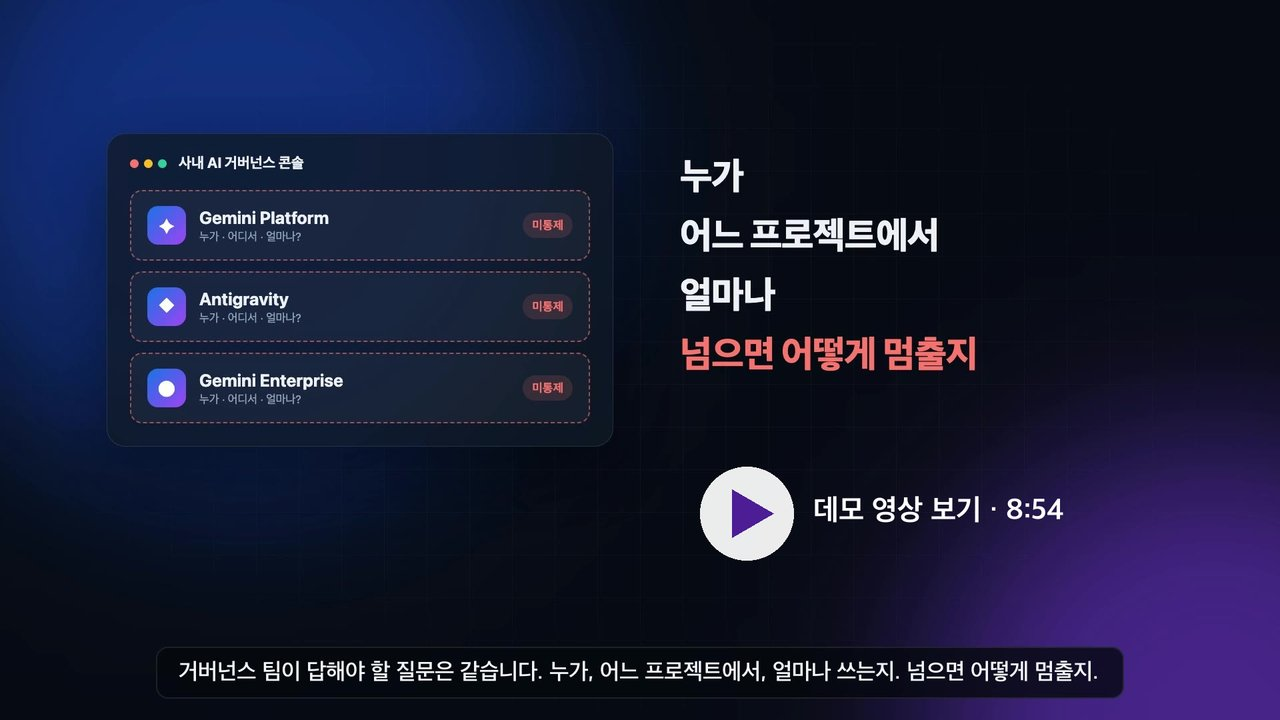
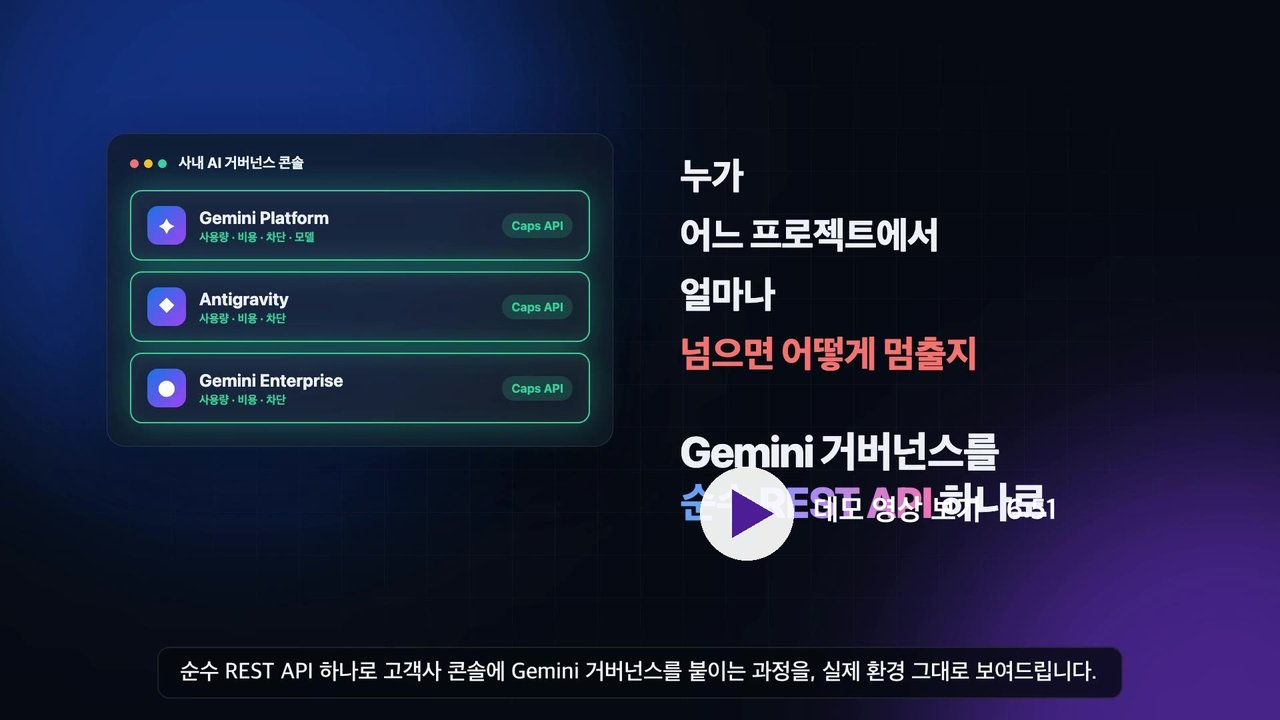
README: demo film recut (1.3x, 6:51, music from first frame, no project IDs in architecture)

Changed region(s): [[0.0938, 0.2444, 0.4688, 0.6111], [0.5312, 0.5806, 0.8438, 0.7333], [0.125, 0.9167, 0.875, 0.9472]]

diff --git a/README.md b/README.md
@@ -85,11 +85,11 @@ bash <(curl -fsSL https://github.com/ldu1225/ai-control-plane/raw/main/scripts/i
 
 ## 데모 영상: 순수 REST API로 고객사 콘솔에 Gemini 거버넌스 붙이기
 
-[![Gemini 거버넌스 REST API 실환경 데모 영상 (8분 54초)](docs/assets/video/gov-demo-poster.jpg)](https://ai-control-plane-hub-484712896449.us-central1.run.app/api/#featured-film-title)
+[![Gemini 거버넌스 REST API 실환경 데모 영상 (6분 51초)](docs/assets/video/gov-demo-poster.jpg)](https://ai-control-plane-hub-484712896449.us-central1.run.app/api/#featured-film-title)
 
 [`caps-dashboard`](caps-dashboard/)(고객사 거버넌스 콘솔)가 Caps REST API만으로 허브·스포크 프로젝트의 Gemini 사용량을 추적하고, 테스트 사용자의 실제 Gemini 호출을 IAM Deny로 403 차단했다가 복구하는 과정을 실환경 그대로 촬영했습니다. 아키텍처, API 명세서 6개 영역, 콘솔 투어, 즉시 차단·예산 초과·모델 위반·조직 정책 영향도 미리보기, 비용과 감사 로그 순서입니다. 한국어 내레이션과 자막이 들어 있습니다.
 
-[영상 재생 (허브 API 탭)](https://ai-control-plane-hub-484712896449.us-central1.run.app/api/#featured-film-title) &nbsp;·&nbsp; [MP4 내려받기 (131 MB)](https://ai-control-plane-hub-484712896449.us-central1.run.app/media/video/gemini-governance-rest-api-demo.f6da34e25f.mp4) &nbsp;·&nbsp; [고객사 콘솔 열기 (Cloud Run)](https://caps-dashboard-484712896449.asia-northeast3.run.app)
+[영상 재생 (허브 API 탭)](https://ai-control-plane-hub-484712896449.us-central1.run.app/api/#featured-film-title) &nbsp;·&nbsp; [MP4 내려받기 (72 MB)](https://ai-control-plane-hub-484712896449.us-central1.run.app/media/video/gemini-governance-rest-api-demo.cddfca756c.mp4) &nbsp;·&nbsp; [고객사 콘솔 열기 (Cloud Run)](https://caps-dashboard-484712896449.asia-northeast3.run.app)
 
 ---
 

diff --git a/README.en.md b/README.en.md
@@ -85,11 +85,11 @@ Shared: project switcher (all or one), light and dark themes, Korean and English
 
 ## Demo film: Gemini governance in a customer console through the REST API alone
 
-[![Gemini governance REST API live demo (8:54)](docs/assets/video/gov-demo-poster.jpg)](https://ai-control-plane-hub-484712896449.us-central1.run.app/api/#featured-film-title)
+[![Gemini governance REST API live demo (6:51)](docs/assets/video/gov-demo-poster.jpg)](https://ai-control-plane-hub-484712896449.us-central1.run.app/api/#featured-film-title)
 
 Shot on a live environment: the [`caps-dashboard`](caps-dashboard/) customer governance console tracks Gemini usage across hub and spoke projects using only the Caps REST API, then blocks a test user's real Gemini calls with IAM Deny (HTTP 403) and restores them. It covers the architecture, the six areas of the API spec, a console tour, instant block, budget overrun, model violation, Org Policy impact preview, and cost and audit logs. Korean narration with subtitles.
 
-[Play (hub API tab)](https://ai-control-plane-hub-484712896449.us-central1.run.app/api/#featured-film-title) &nbsp;·&nbsp; [Download MP4 (131 MB)](https://ai-control-plane-hub-484712896449.us-central1.run.app/media/video/gemini-governance-rest-api-demo.f6da34e25f.mp4) &nbsp;·&nbsp; [Open the customer console (Cloud Run)](https://caps-dashboard-484712896449.asia-northeast3.run.app)
+[Play (hub API tab)](https://ai-control-plane-hub-484712896449.us-central1.run.app/api/#featured-film-title) &nbsp;·&nbsp; [Download MP4 (72 MB)](https://ai-control-plane-hub-484712896449.us-central1.run.app/media/video/gemini-governance-rest-api-demo.cddfca756c.mp4) &nbsp;·&nbsp; [Open the customer console (Cloud Run)](https://caps-dashboard-484712896449.asia-northeast3.run.app)
 
 ---
 

diff --git a/caps-dashboard/README.md b/caps-dashboard/README.md
@@ -4,14 +4,14 @@
 
 외부 Python/JS 패키지 의존성 없이 Python 3.12 표준 라이브러리와 모던 HTML/CSS/Vanilla JS만으로 동작합니다.
 
-## 데모 영상 (실환경 · 8분 54초)
+## 데모 영상 (실환경 · 6분 51초)
 
 [![Gemini 거버넌스 REST API 실환경 데모 영상](../docs/assets/video/gov-demo-poster.jpg)](https://ai-control-plane-hub-484712896449.us-central1.run.app/api/#featured-film-title)
 
 아키텍처 → Caps API 명세서(사용량·비용, 한도·차단, 그룹, 모델 통제, 쿼터, 보안) → 이 콘솔 투어 → 즉시 차단 · 예산 초과 자동 차단 · 모델 위반 · 조직 정책 영향도 미리보기 · 비용과 감사 로그. 테스트 사용자의 실제 Gemini 호출이 IAM Deny로 403 차단되고 다시 풀리는 과정을 그대로 담았습니다. 한국어 내레이션과 자막이 포함되어 있습니다.
 
 - 영상 재생: [엔게이지먼트 허브 · API 탭](https://ai-control-plane-hub-484712896449.us-central1.run.app/api/#featured-film-title)
-- MP4 직접 받기: [gemini-governance-rest-api-demo.mp4](https://ai-control-plane-hub-484712896449.us-central1.run.app/media/video/gemini-governance-rest-api-demo.f6da34e25f.mp4) (131 MB, GitHub 100 MB 파일 제한 때문에 저장소 대신 허브에서 제공합니다.)
+- MP4 직접 받기: [gemini-governance-rest-api-demo.mp4](https://ai-control-plane-hub-484712896449.us-central1.run.app/media/video/gemini-governance-rest-api-demo.cddfca756c.mp4) (72 MB, GitHub 100 MB 파일 제한 때문에 저장소 대신 허브에서 제공합니다.)
 
 ## 접속 URL
 
